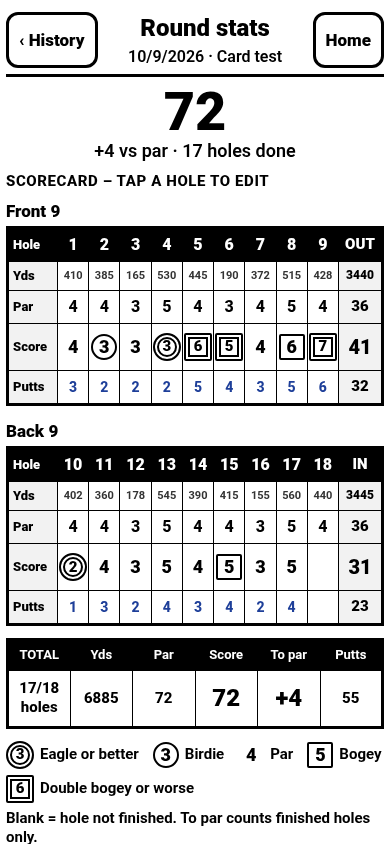
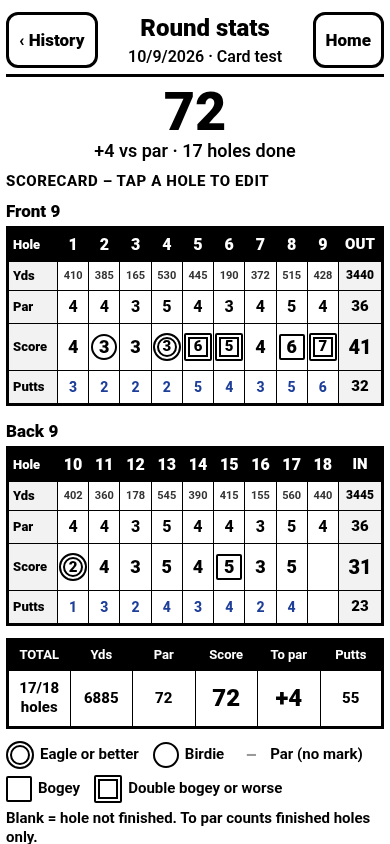
v16: scorecard legend shows empty symbols (no numbers); SW v16

Changed region(s): [[0.0, 0.8626, 0.7385, 0.955], [0.7692, 0.8626, 0.9846, 0.9242]]

diff --git a/app.js b/app.js
@@ -309,8 +309,8 @@
       '<table class="scard stotal" id="card-total"><tr><th>TOTAL</th><th>Yds</th><th>Par</th><th>Score</th><th>To par</th><th>Putts</th></tr>' +
       '<tr><td>' + done.length + '/' + r.holes.length + ' holes</td><td>' + (tYds || '') + '</td><td>' + tPar + '</td><td class="big">' + (done.length ? tScore : '–') + '</td><td class="big" id="card-topar">' +
       (done.length ? toPar(tScore - parDone) : '–') + '</td><td>' + (done.length ? tPutts : '–') + '</td></tr></table>' +
-      '<div class="legend sclegend" id="card-legend"><span><span class="mk mk-eagle">3</span>Eagle or better</span><span><span class="mk mk-birdie">3</span>Birdie</span><span><span class="mk mk-par">4</span>Par</span>' +
-      '<span><span class="mk mk-bogey">5</span>Bogey</span><span><span class="mk mk-double">6</span>Double bogey or worse</span><span>Blank = hole not finished. To par counts finished holes only.</span></div>';
+      '<div class="legend sclegend" id="card-legend"><span><span class="mk mk-eagle"></span>Eagle or better</span><span><span class="mk mk-birdie"></span>Birdie</span><span><span class="mk mk-par lgpar">–</span>Par (no mark)</span>' +
+      '<span><span class="mk mk-bogey"></span>Bogey</span><span><span class="mk mk-double"></span>Double bogey or worse</span><span>Blank = hole not finished. To par counts finished holes only.</span></div>';
   }
   function summaryHTML() {
     var r = round(), bl = blOf(r), S = SG.summarize(r, bl);

diff --git a/tests/focused.js b/tests/focused.js
@@ -30,6 +30,9 @@ const BASE = process.env.BASE_URL || 'http://127.0.0.1:8765/', SHOTS = process.e
   const fit = await page.evaluate(() => ({ docW: document.documentElement.scrollWidth, r: ['card-front', 'card-back', 'card-total'].map(id => document.getElementById(id).getBoundingClientRect().right), h: Math.min(...[...document.querySelectorAll('#card-front tr.sscore .hc')].map(b => b.getBoundingClientRect().height)) }));
   assert.ok(fit.docW <= 390 && fit.r.every(x => x <= 390), JSON.stringify(fit)); assert.ok(fit.h >= 44, 'cell h ' + fit.h);
   assert.match(await page.textContent('.topbar'), /‹ History/);
+  const lg = await page.$$eval('#card-legend .mk', ms => ms.map(m => m.className.replace('mk ', '') + ':' + m.textContent));
+  assert.deepStrictEqual(lg, ['mk-eagle:', 'mk-birdie:', 'mk-par lgpar:–', 'mk-bogey:', 'mk-double:']);
+  await page.locator('#card-legend').scrollIntoViewIfNeeded(); await page.screenshot({ path: SHOTS + '/33b-scorecard-legend.png' });
   await page.locator('#card-front').scrollIntoViewIfNeeded(); await page.evaluate(() => window.scrollBy(0, -56));
   await page.screenshot({ path: SHOTS + '/33-scorecard.png' });
   await page.click('#card-back tr.sscore [data-act="goHole"][data-i="12"]'); assert.match(await page.textContent('.hc-head'), /Hole 13/);

diff --git a/sw.js b/sw.js
@@ -1,5 +1,5 @@
 // Offline support: cache the whole app on install, serve cache-first.
-const CACHE = 'golf-sg-v15';
+const CACHE = 'golf-sg-v16';
 const ASSETS = ['./', './index.html', './styles.css', './sg.js', './app.js',
   './manifest.webmanifest', './icons/apple-touch-icon.png', './icons/icon-192.png',
   './icons/icon-512.png', './icons/icon-512-maskable.png'];

diff --git a/styles.css b/styles.css
@@ -275,3 +275,4 @@ body.noscroll { overflow: hidden; }
 .hrow .hscore { text-align: right; }
 .hrow .hdel { flex: 0 0 52px; padding: 0; font-size: 22px; border-color: var(--red); }
 .tbspace { width: 60px; }
+.sclegend .lgpar { color: #999; font-weight: 700; }
